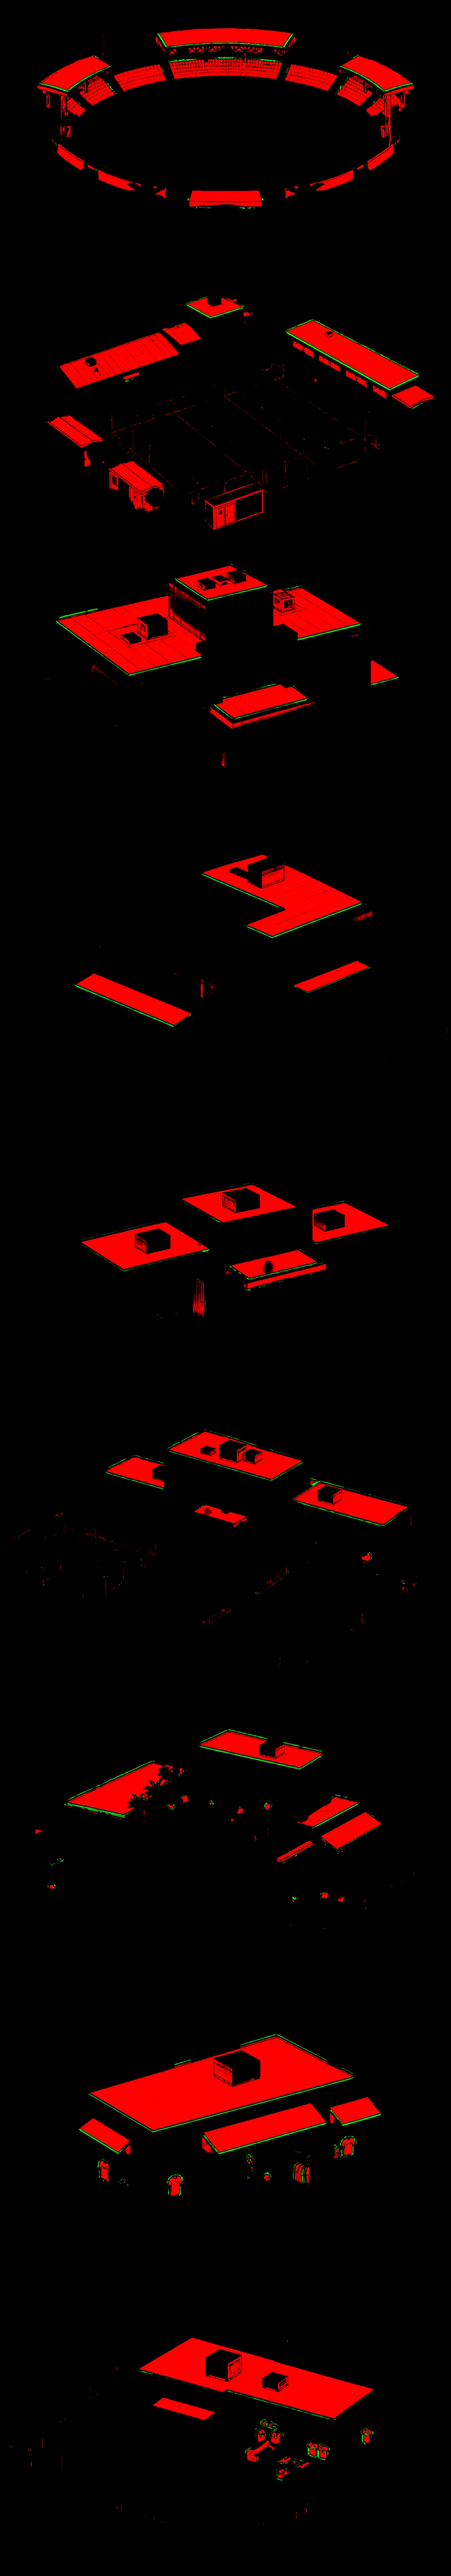
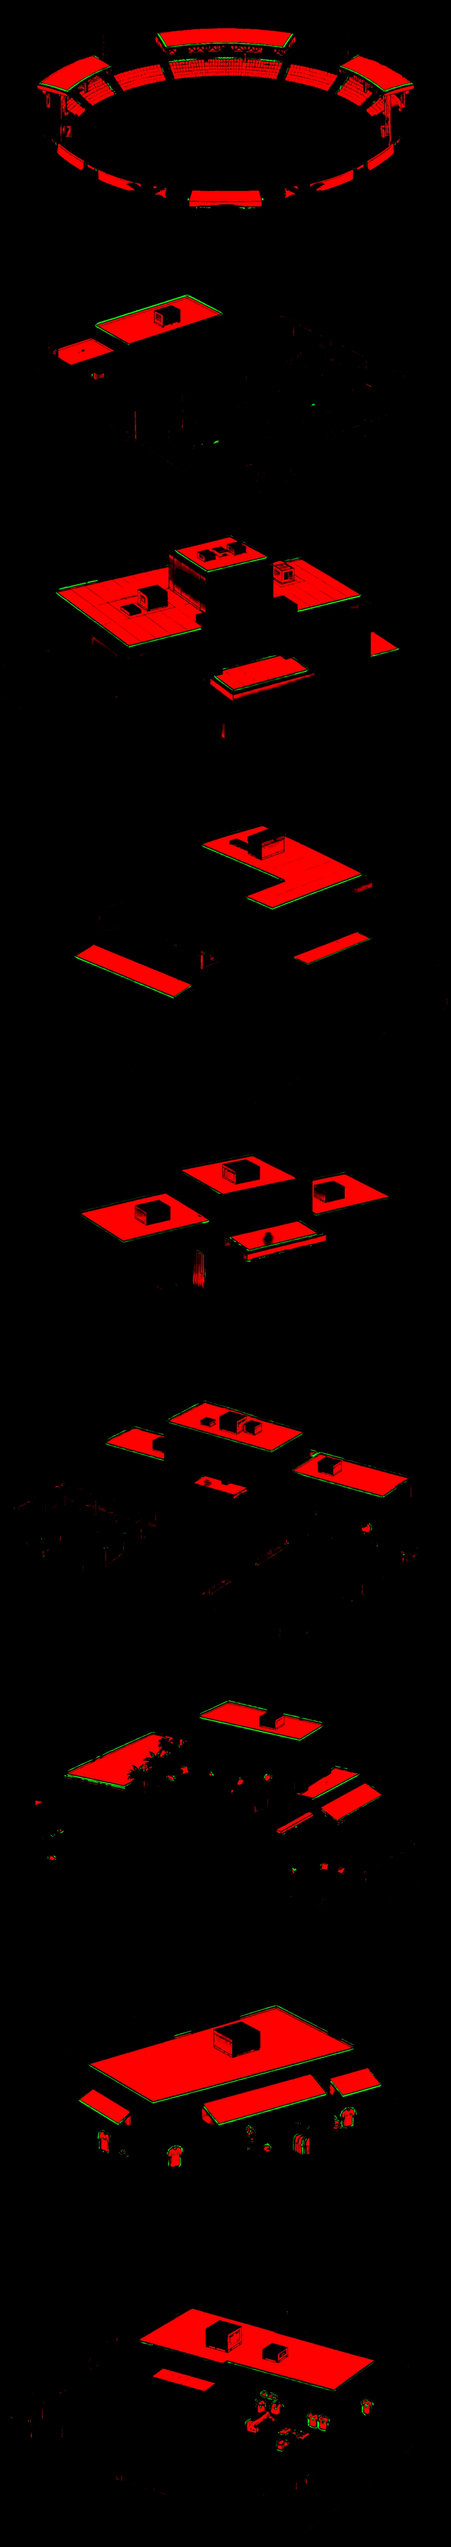
Club map: the level 1 training ground (level 2 and the earlier one kept for later)
Claude-Session: https://claude.ai/code/session_01NK7tbrKg5PdA6fuyEUPXLd

diff --git a/js/clubmap.js b/js/clubmap.js
@@ -8,7 +8,7 @@ const GREY = 0.7;                   // the grey every club-coloured surface was 
 // (fitted to the plots in the base picture: the building's base on the plot's ground, inside its walls)
 const SITES = {
   stadium:  { x: 0.504, y: 0.446, w: 0.314 },
-  training: { x: 0.340, y: 0.158, w: 0.349 },
+  training: { x: 0.344, y: 0.165, w: 0.351 },
   apartment:{ x: 0.725, y: 0.211, w: 0.314 },
   office:   { x: 0.224, y: 0.310, w: 0.316 },
   academy:  { x: 0.808, y: 0.356, w: 0.295 },
@@ -19,7 +19,7 @@ const SITES = {
 };
 const ORDER = Object.keys(SITES).sort((a, b) => SITES[a].y - SITES[b].y);   // far to near, the near ones painted over the far
 // where each building is in img/map/buildings.webp (and its tint in buildings-tint.webp): [row, height], all 1100 wide (tools/build_map.py)
-const ATLAS = {"stadium": [0, 647], "training": [647, 714], "office": [1361, 704], "apartment": [2065, 732], "medical": [2797, 651], "academy": [3448, 743], "clubhouse": [4191, 702], "shop": [4893, 709], "merch": [5602, 675]};
+const ATLAS = {"stadium": [0, 647], "training": [647, 645], "office": [1292, 704], "apartment": [1996, 732], "medical": [2728, 651], "academy": [3379, 743], "clubhouse": [4122, 702], "shop": [4824, 709], "merch": [5533, 675]};
 const AW = 1100;
 const rgbOf = h => [1, 3, 5].map(i => parseInt(h.slice(i, i + 2), 16));
 const load = src => new Promise((res, rej) => { const im = new Image(); im.onload = () => res(im); im.onerror = rej; im.src = src; });

diff --git a/tools/fit_map_sites.py b/tools/fit_map_sites.py
@@ -21,7 +21,7 @@ plots=[]
 for i,sl in enumerate(ndi.find_objects(lab),1):
     if (lab[sl]==i).sum()>40000:
         ys,xs=np.where(lab==i); plots.append(dict(cx=(xs.min()+xs.max())/2,cy=(ys.min()+ys.max())/2,x0=xs.min(),x1=xs.max(),y1=ys.max()))
-ATLAS={"stadium":[0,647],"training":[647,714],"office":[1361,704],"apartment":[2065,732],"medical":[2797,651],"academy":[3448,743],"clubhouse":[4191,702],"shop":[4893,709],"merch":[5602,675]}
+ATLAS={"stadium":[0,647],"training":[647,645],"office":[1292,704],"apartment":[1996,732],"medical":[2728,651],"academy":[3379,743],"clubhouse":[4122,702],"shop":[4824,709],"merch":[5533,675]}
 atlas=Image.open(R+'img/map/buildings.webp').convert('RGBA'); al=np.array(atlas)[...,3]
 def pick(fx,fy): return min(plots,key=lambda p:(p['cx']/W-fx)**2+(p['cy']/H-fy)**2)
 assign={'stadium':(.503,.444),'training':(.34,.195),'apartment':(.735,.245),'office':(.224,.334),'academy':(.812,.382),'medical':(.24,.584),'clubhouse':(.766,.594),'shop':(.239,.739),'merch':(.749,.757)}
